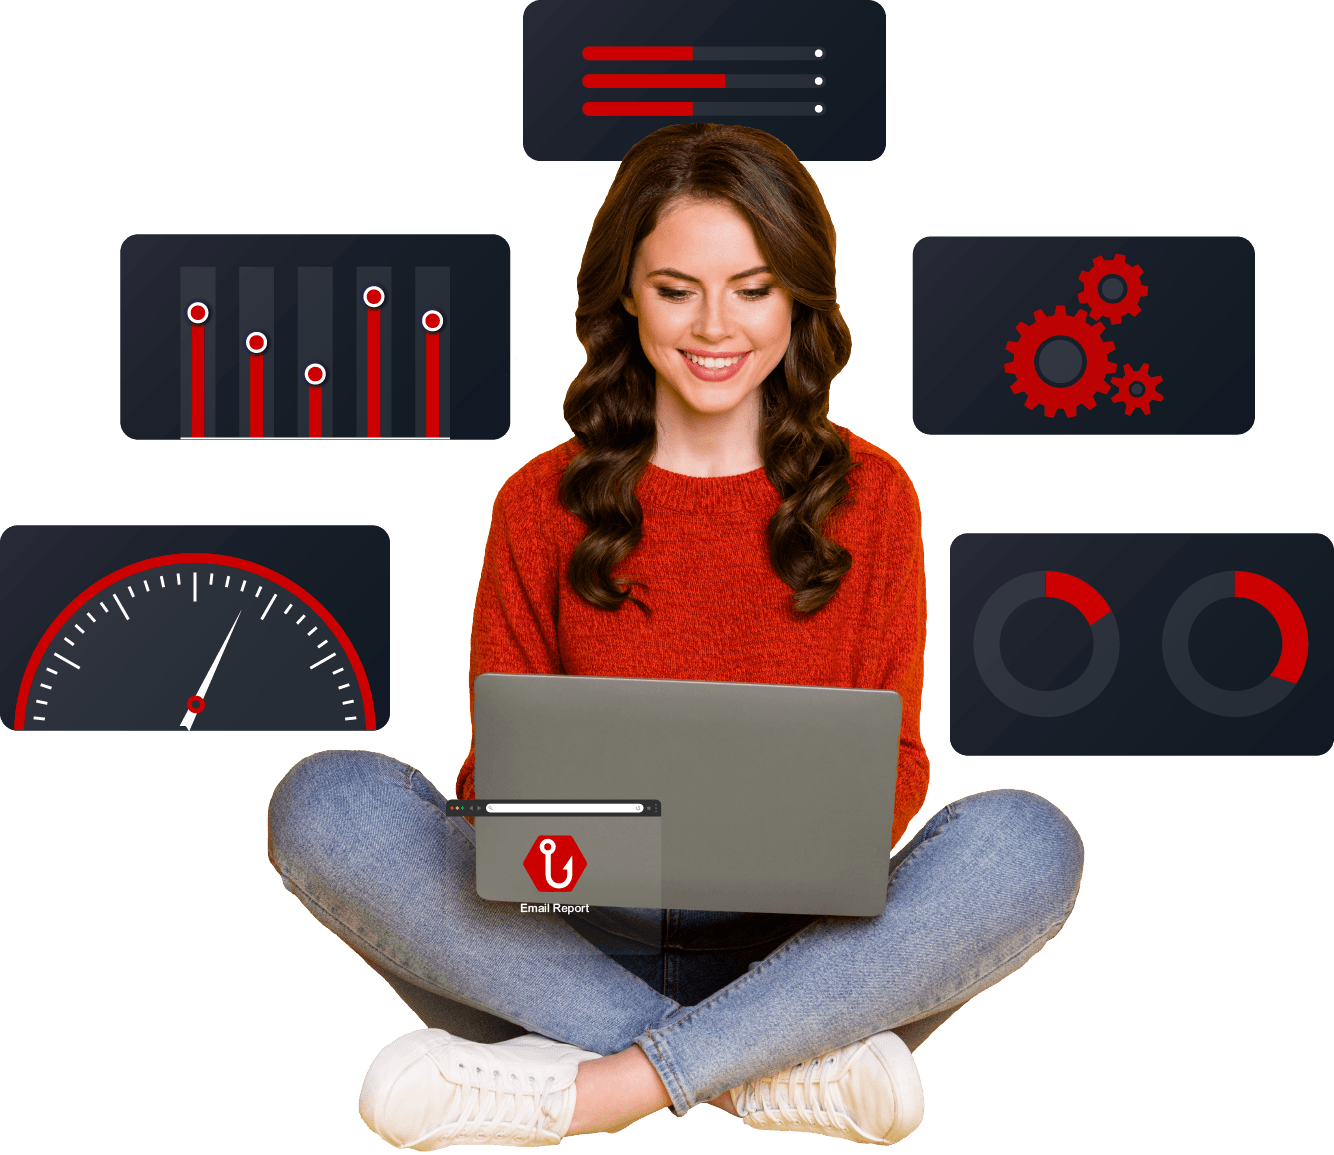
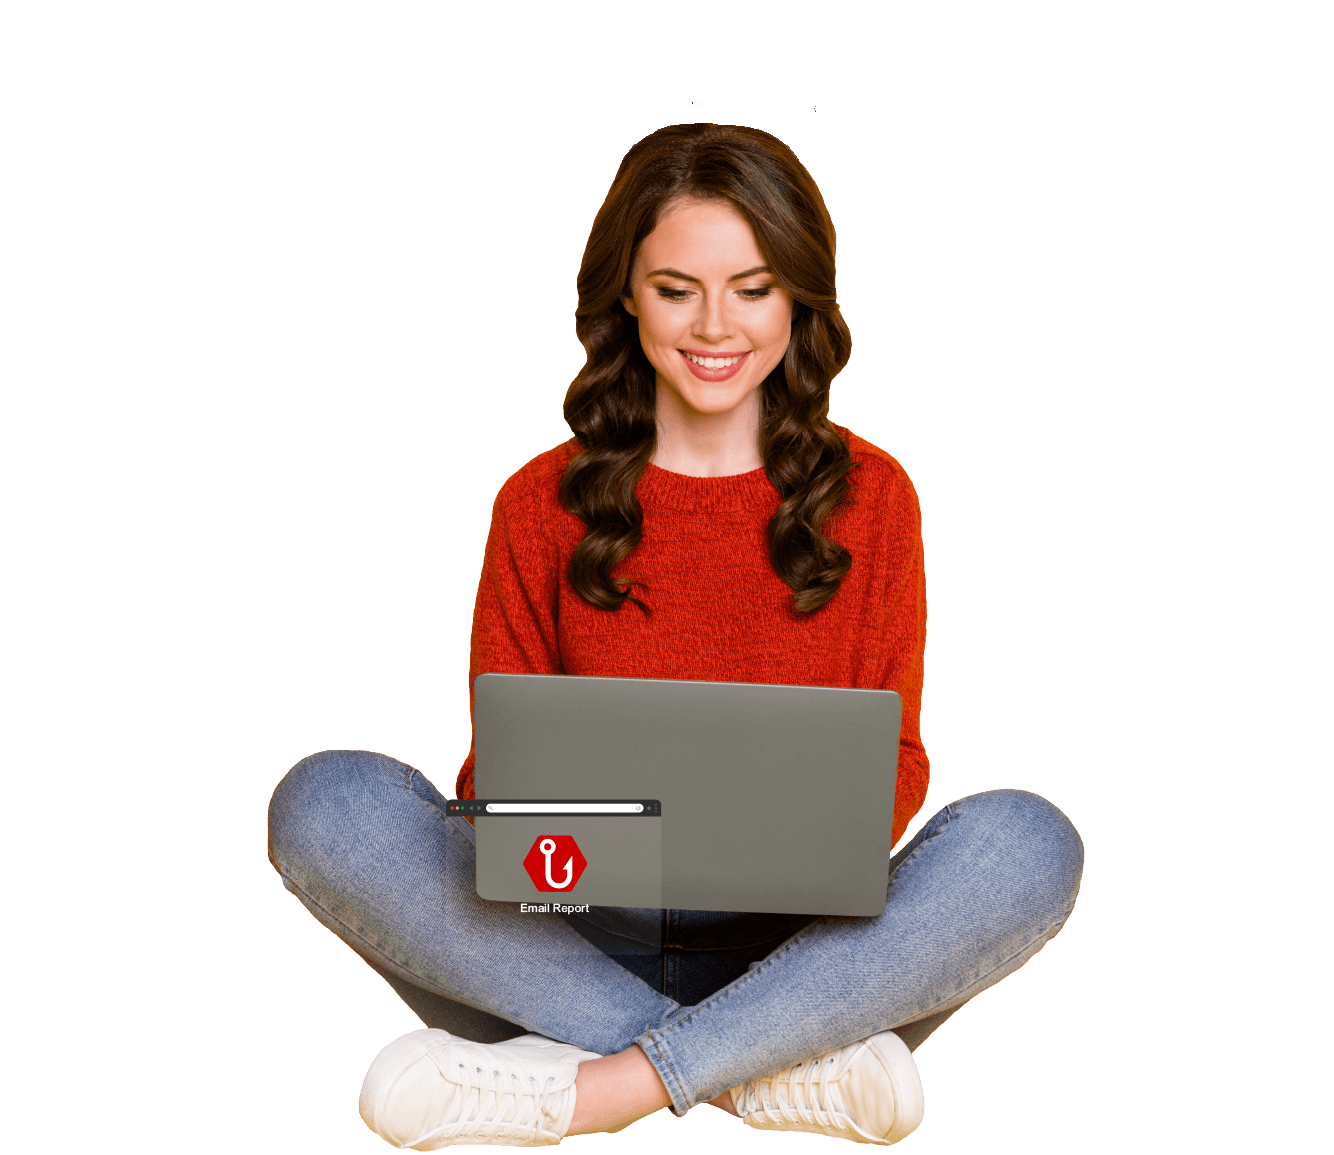
page done

diff --git a/index.html b/index.html
@@ -95,9 +95,37 @@
                 <a href="Request_demo.html" class="btn mb-3" role="button" aria-disabled="true">Request a demo </a>
 
             </div>
-            <div class="col-12 col-md-5 my-lg-0 my-xl-5 py-lg-4 px-md-0 d-none d-md-block">
+            <div class="col-12 col-md-5 my-lg-0 my-xl-5 py-lg-4 px-md-0 d-none d-md-block position-relative">
                 <!-- <img src="assets/png/Hero_Section.png" alt="Hero_Section" class="img-fluid"> -->
                 <img src="assets/png/Front page.png" alt="Hero_Section" class="img-fluid">
+               <div class="speed1">
+                <script src="https://unpkg.com/@lottiefiles/lottie-player@latest/dist/lottie-player.js"></script> 
+
+
+                <lottie-player src="https://lottie.host/ebb22ec0-6d3a-4d25-98db-5258877b68f6/1leTuaGzOH.json" background="transparent" speed="1" style="width: 150px; height: 150px;" loop autoplay></lottie-player>
+               </div>
+               <div class="bar_grf">
+                <script src="https://unpkg.com/@lottiefiles/lottie-player@latest/dist/lottie-player.js"></script> 
+    <lottie-player src="https://lottie.host/d9c22519-0c22-438d-b7a7-a287be86a0fd/idgzZO6DfO.json" background="transparent" speed="1" style="width: 150px; height: 150px;" loop autoplay></lottie-player>
+               </div>
+               <div class="bar0">
+                <script src="https://unpkg.com/@lottiefiles/lottie-player@latest/dist/lottie-player.js"></script> 
+
+
+    <lottie-player src="https://lottie.host/09a7f639-6a07-49f7-9c0b-3206bd39ce44/UKNK8ZmGr1.json" background="transparent" speed="1" style="width: 140px; height: 140px;" loop autoplay></lottie-player>
+               </div>
+               <div class="settings"> 
+                <script src="https://unpkg.com/@lottiefiles/lottie-player@latest/dist/lottie-player.js"></script> 
+
+
+    <lottie-player src="https://lottie.host/9be98bee-a67d-4f91-950e-ce83a210b67b/ErbSWoQH2h.json" background="transparent" speed="1" style="width: 140px; height: 140px;" loop autoplay></lottie-player>
+               </div>
+               <div class="barcrl">
+                <script src="https://unpkg.com/@lottiefiles/lottie-player@latest/dist/lottie-player.js"></script> 
+
+
+    <lottie-player src="https://lottie.host/edb83a09-a05b-4c47-837d-ad9dbc7d8d3d/XNFOU23bKt.json" background="transparent" speed="1" style="width: 150px; height: 150px;" loop autoplay></lottie-player>
+               </div>
             </div>
 
             <div class="col-12 mb-4  mt-lg-2 d-none d-md-block">

diff --git a/aboutUs.html b/aboutUs.html
@@ -80,7 +80,7 @@
     <!-- Hero Section Start html  -->
     <div class="container py-5 py-sm-0 section" style="margin-top: 80px;" >
         <div class="row px-3 px-sm-0 py-md-0 my-0 my-xl-5 d-flex align-items-center">
-            <div class="col-12 col-md-7 my-lg-0 my-xl-5 py-lg-4 hero_content">
+            <div class="col-12 col-md-7 my-lg-0  hero_content">
                 <h1>Human Defence Reinforced for 
 
                      <br>
@@ -89,8 +89,12 @@
                 
 
             </div>
-            <div class="col-12 col-md-5 my-lg-0 my-xl-5 py-lg-4 px-md-0 d-none d-md-block">
-                <img src="assets/png/About.png" alt="about" class="img-fluid">
+            <div class="col-12 col-md-5 my-lg-0  px-md-0 d-none d-md-block">
+                <!-- <img src="assets/png/About.png" alt="about" class="img-fluid"> -->
+                <script src="https://unpkg.com/@lottiefiles/lottie-player@latest/dist/lottie-player.js"></script> 
+
+
+    <lottie-player src="https://lottie.host/4f710666-6870-42c5-a718-2e35975ee0f6/7HNB15tOOZ.json" background="transparent" speed="1" style="width:500px; height: 500px;" loop autoplay></lottie-player>
             </div>
         </div>
     </div>

diff --git a/Why_HumanFirewall.html b/Why_HumanFirewall.html
@@ -448,7 +448,7 @@
             <div class="col-12 py-3 py-sm-5">
                 <div class="container">
                     <div class="row d-flex justify-content-between">
-                        <div class="col-12 py-2 d-flex justify-content-center align-items-center ctn_section">
+                        <div class="col-12 col-xl-6 py-2 d-flex justify-content-center align-items-center ctn_section">
                        <div class="card_cta">
                        <h2>Still Not Sure?
                         <br>
@@ -460,6 +460,12 @@
                     </p>
                     <a href="https://app.humanfirewall.io/register" class="btn">Free Trial </a>
                        </div>
+                        </div>
+                        <div class="col-12 col-xl-6">
+                            <script src="https://unpkg.com/@lottiefiles/lottie-player@latest/dist/lottie-player.js"></script> 
+
+
+    <lottie-player src="https://lottie.host/4bc22a75-7adc-4927-bbe4-df2a0919e069/n85NbYpcME.json" background="transparent" speed="1" style="width: 600px; height: 400px;" loop autoplay></lottie-player>
                         </div>
                     </div>
                 </div>

diff --git a/css/style.css b/css/style.css
@@ -142,6 +142,38 @@ p {
 
 
 /* Hero Section Start Css  */
+
+.speed1 {
+  position: absolute;
+  top: 182px;
+    left: -6px;
+}
+
+.bar_grf {
+  position: absolute;
+  top: 83px;
+    left: 54px;
+}
+
+.settings {
+  position: absolute;
+  right: 0px;
+    top: 60px;
+}
+
+.bar0 {
+  position:absolute;
+  top: 10px;
+  transform: rotate(90deg);
+  left: 180px;
+}
+
+.barcrl {
+  position:absolute;
+  top: 182px;
+  right: 0;
+}
+
 .hero_content h1 {
   color: var(--sec-color);
 }
